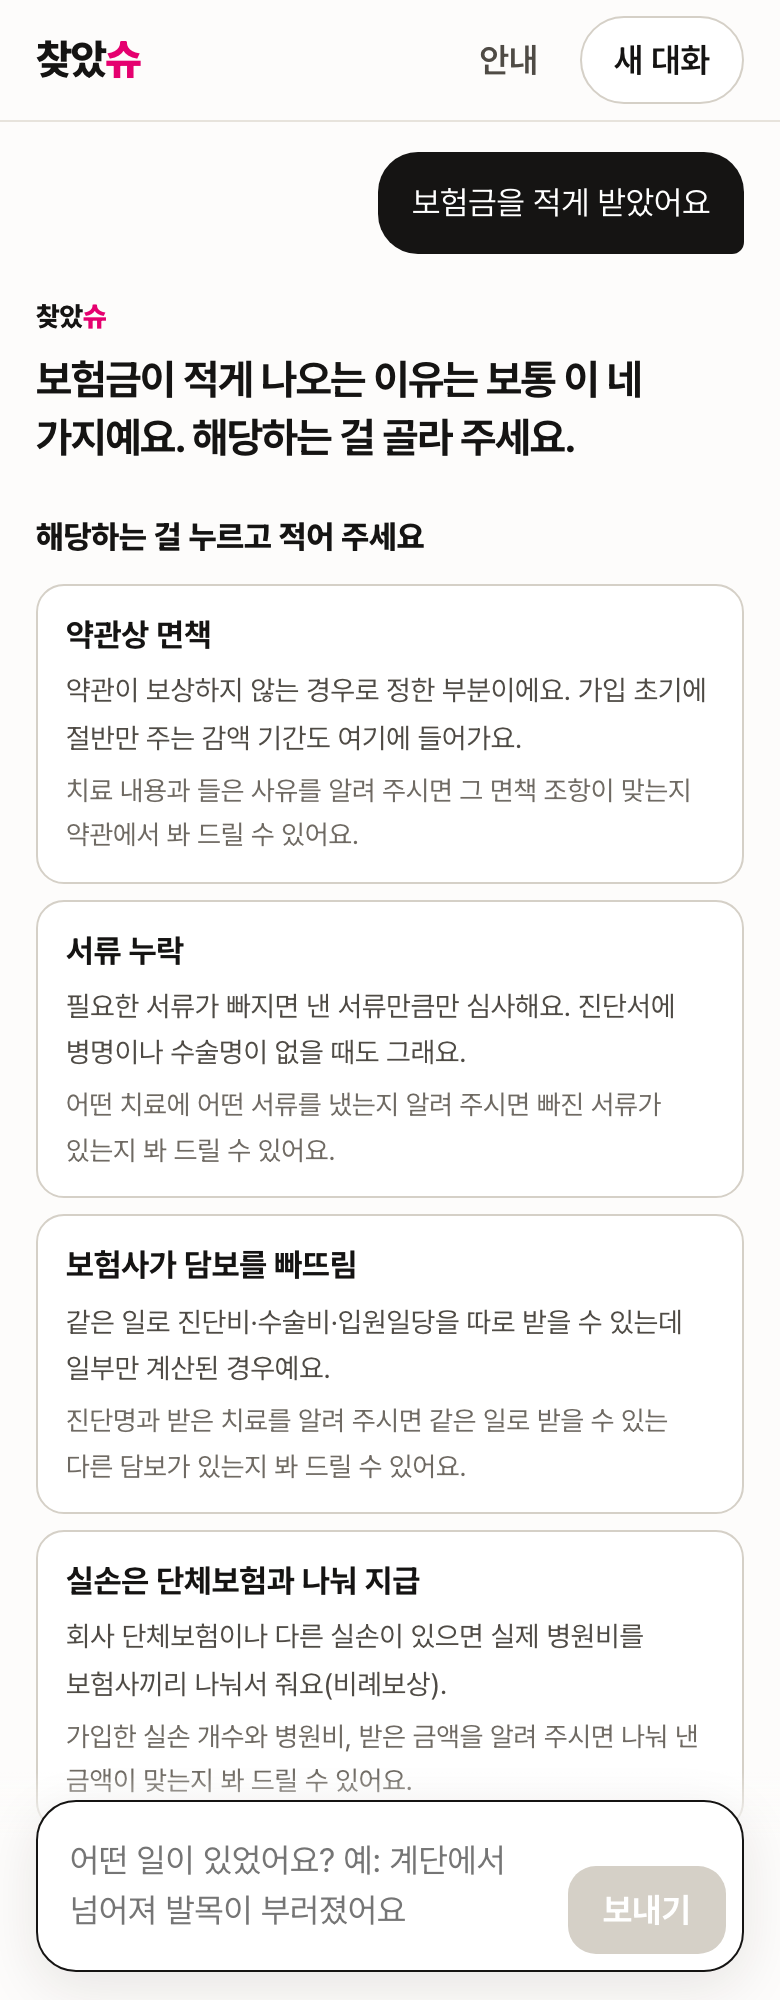
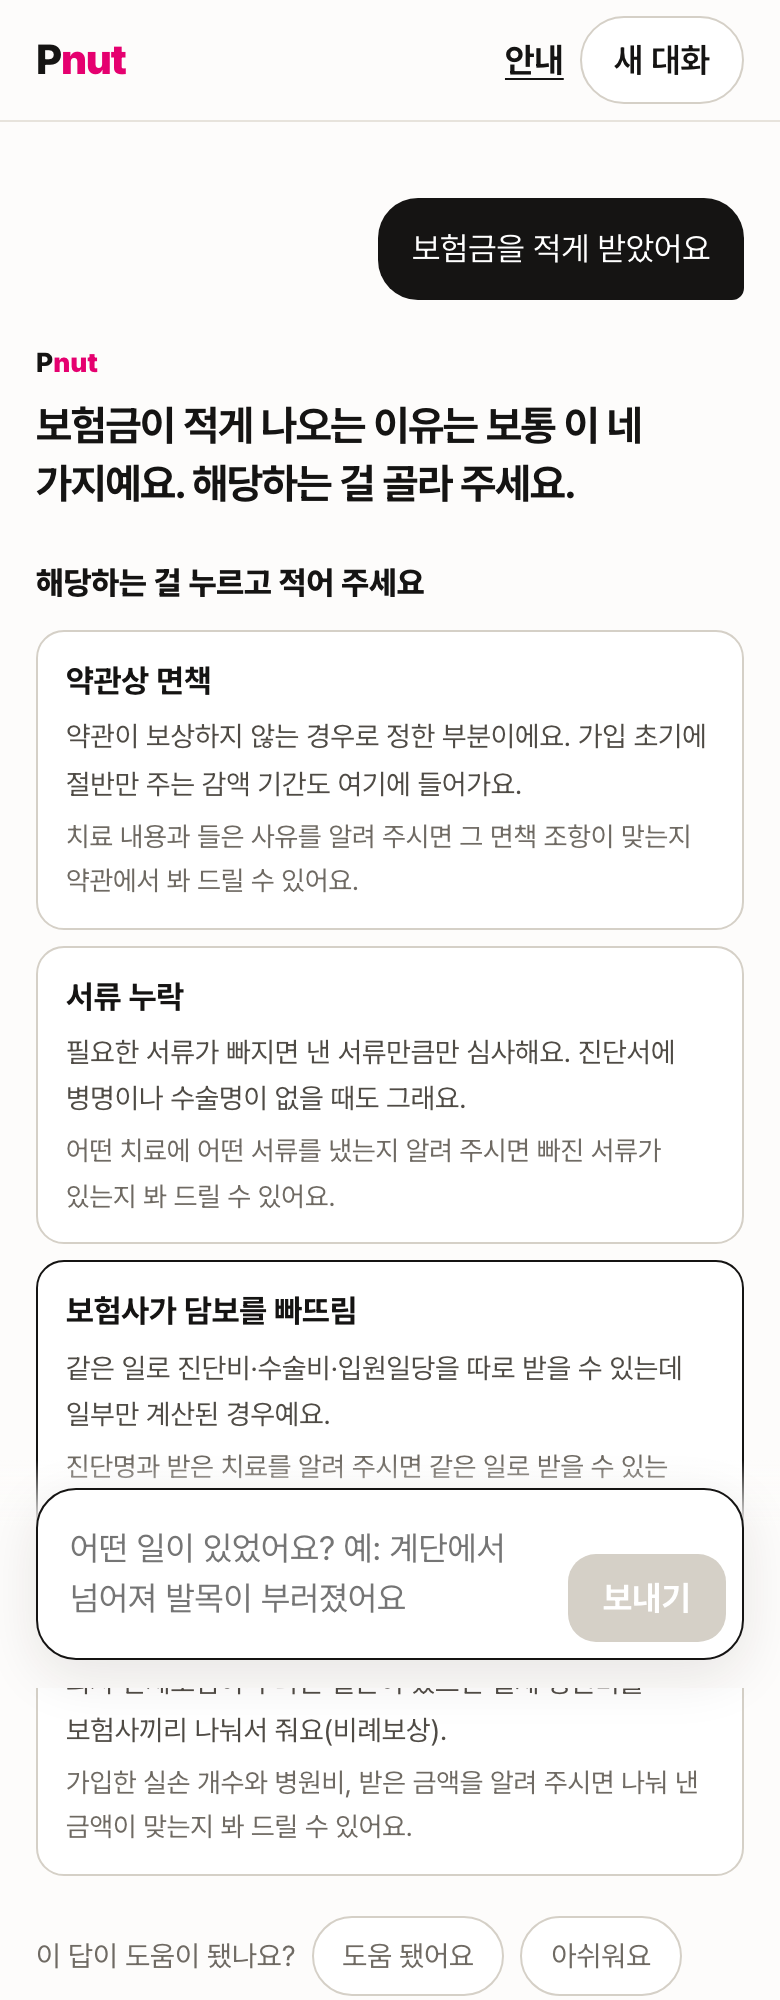
docs: 이름을 피넛으로 바꾸고 화면·질문 기록·다음 단계 반영
- 찾았슈 → 피넛(로고 Pnut), 옛 이름은 본문에 한 번 남김
- 화면 4장을 배포판(foundshu-00041)과 같은 코드로 다시 찍고 해시 기록 갱신
- 동의한 질문만 가려 버킷에 저장하는 설계 판단, 외부 AI 읽기를 끈 상태, 응답 시간 재측정
- 다음 단계(큰 분류, 분류 단위 평가, 로컬 모델, 수집 확장)를 계획으로 추가

diff --git a/README.md b/README.md
@@ -1,18 +1,18 @@
-# 사고 경위로 보험 약관의 담보와 근거 조항을 찾는 찾았슈
+# 사고 경위로 보험 약관의 담보와 근거 조항을 찾는 피넛
 
 [![검증](https://github.com/wpalswpa/foundshu-rag-evidence/actions/workflows/verify.yml/badge.svg)](https://github.com/wpalswpa/foundshu-rag-evidence/actions/workflows/verify.yml)
 
-다친 일이나 아팠던 일을 평소 말로 적으면, 보험사가 공시한 약관 원문에서 확인할 담보를 찾아 진단비, 수술비, 입원일당, 실손 순으로 보여 준다. 담보마다 약관의 기준 문장, 빠지는 경우, 준비할 서류를 함께 붙인다. 보험금이 나오는지 정하지는 않는다. 약관을 펴기 전에 "어느 담보의 어느 조항을 읽어야 하는가"까지 좁혀 주는 것이 목적이다.
+다친 일이나 아팠던 일을 평소 말로 적으면, 보험사가 공시한 약관 원문에서 확인할 담보를 찾아 진단비, 수술비, 입원일당, 실손 순으로 보여 준다. 담보마다 약관의 기준 문장, 빠지는 경우, 준비할 서류를 함께 붙인다. 보험금이 나오는지 정하지는 않는다. 약관을 펴기 전에 "어느 담보의 어느 조항을 읽어야 하는가"까지 좁혀 주는 것이 목적이다. 2026-11-12에 이름을 찾았슈에서 피넛(로고 Pnut)으로 바꿨다.
 
 현재 상태는 다음과 같다.
 
-- 된 것: 접근 코드로 제한한 공개 시연판이 클라우드에서 돈다. 공개판은 약관 색인 검색만 쓰고, 질문마다 언어 모델을 부르지 않는다.
-- 안 된 것: 모델이 원문을 읽고 답하는 읽기 방식은 구현했지만 크레딧이 없어 공개판은 검색만 방식으로 답하고, 읽기 방식의 정확도는 재지 않았다. 색인된 약관은 71개(보험사 7곳)로, 판매 중인 전체 약관에는 아직 멀다. 실제 사용자 검증과 보험사 연동은 없다.
+- 된 것: 접근 코드로 제한한 공개 시연판이 클라우드에서 돈다. 공개판은 약관 색인 검색만 쓰고, 질문마다 언어 모델을 부르지 않는다. 질문은 사용자가 동의한 경우에만 주민등록번호와 휴대폰 번호를 가린 뒤 1년 동안 보관해 검색 개선과 학습에 쓴다.
+- 안 된 것: 외부 AI가 원문을 읽고 답하는 읽기 방식은 구현했지만, 서비스 경로에서는 외부 AI에 기대지 않기로 해 공개판에서 껐다. 로컬 모델이나 직접 띄운 모델 서빙으로 옮기는 것이 다음 단계이고, 읽기 방식의 정확도는 아직 재지 않았다. 색인된 약관은 71개(보험사 7곳)로, 판매 중인 전체 약관에는 아직 멀다. 실제 사용자 검증과 보험사 연동은 없다.
 - 이 저장소: 서비스 코드는 비공개다. 여기에는 작동 원리, 현재 화면, 측정 기록, 이전 실험(계약 범위 검색)의 공개 재현 코드를 둔다.
 
 ## 화면
 
-![소개 화면. 큰 제목 '이것도 보험금 나와요?', 흐르는 키워드 단추, 실제 답 화면](docs/images/intro.png)
+![소개 화면. 큰 제목 '이것도 보험금 나와요?', 흐르는 예시 단추, 휴대폰 틀 안에 실제 답이 쌓이는 화면](docs/images/intro.png)
 
 <p>
   <img src="docs/images/answer-burn.png" width="250" alt="화상 질문의 답. 진단비 묶음의 대표 화상진단비와 심재성 2도 이상이라는 약관 기준 줄, 같은 종류 담보 목록">
@@ -23,7 +23,7 @@
 | 질문 | 화면이 보여 주는 것 |
 |---|---|
 | 뜨거운 물에 데여서 화상을 입었어요 | 진단비 묶음의 대표가 화상진단비다. '기준' 줄에 약관 정의(심재성 2도 이상의 화상)를 옮기고, 다른 회사·다른 이름의 같은 종류 담보는 아래 목록으로 접어 둔다 |
-| 백내장 수술했어요 | 담보 12개를 진단비·수술비·종별 수술비(1~5종)·실손 네 묶음으로 보인다. 이름에 '백내장 제외'가 붙은 담보는 빼고, 왜 뺐는지 안내에 남긴다 |
+| 백내장 수술했어요 | 담보 12개를 진단비·수술비·종별 수술비(1~5종)·실손 네 묶음으로 보인다. 이름에 '백내장 제외'가 붙은 담보는 빼고, 왜 뺐는지 안내에 남긴다. 준비할 서류는 확인 목록으로 보이고, 실손 묶음 아래에서 실손 보험금 계산을 열 수 있다 |
 | 보험금을 적게 받았어요 | 경위가 없어 담보를 늘어놓지 않고, 대표 사유 네 가지를 고르게 한다 |
 
 ## 작동 원리
@@ -70,6 +70,7 @@ flowchart TD
 | 약관을 14개에서 71개로 늘리자 같은 담보 카드가 겹치고 답이 길어졌다(화상 질문에 화상진단비 5장) | 같은 회사·같은 이름 담보는 검색 자리 하나, 같은 종류 담보는 한 묶음(대표 1장 + 목록) | 담보마다 카드 한 장이면 약관이 늘수록 답이 길어진다. 같은 종류 담보는 지급 조건의 짜임과 서류가 비슷하다 |
 | "갑상선에 혹… 암이래요"처럼 떨어져 쓰면 유사암 담보를 못 찾았다 | 사건 읽기가 부위로 묶은 질환과 약관의 묶음 이름(유사암)을 검색 계획에 넣는다 | 낱말 점수만으로는 이름이 다른 유사암진단비가 20위 밖으로 밀렸다 |
 | 판단 목록이 코드에 흩어져 있었다 | 담보 순서, 일반어, 제외 표시, 되묻기 선택지를 데이터 파일로 분리하고 코드는 표만 적용한다 | 목록이 코드 안에 있으면 바꿀 때마다 코드를 고쳐야 한다 |
+| 학습용 질문 기록이 클라우드에서 남지 않았다 | 동의한 질문만 가려서, 질문 하나를 파일 하나로 저장소 버킷에 답을 보내기 전에 올린다. 버킷에는 365일 삭제 규칙을 건다 | 컨테이너 안 SQLite 파일은 요청이 없어 인스턴스가 0대로 줄면 사라졌다. SQLite 파일을 버킷에 붙여 쓰면 잠금 문제가 생긴다. 답을 보낸 뒤 올리면 Cloud Run이 CPU를 거의 멈춰 기록이 늦거나 빠질 수 있다 |
 
 ## 측정 결과
 
@@ -83,7 +84,7 @@ flowchart TD
 
 - 같은 질문으로 잰 변화: 첫 측정(약관 14개) 찾음 10 · 잘못 표시 10 · 못 찾음 12 → '안 나와요' 단정을 없앤 뒤 20 · 0 · 12 → 약관 71개와 묶음 질환·실손 보강 뒤 23 · 0 · 9.
 - 못 찾은 9개에는 고객 말과 약관 말이 먼 질문("온몸 사진 찍는 검사" → 양전자단층촬영, "간질" → 뇌전증, "피를 못 만드는 병" → 재생불량성빈혈)과, 담보가 아니라 계약 조건을 묻는 질문(특별조건부, 이륜자동차 부담보)이 섞여 있다.
-- 공개판(클라우드, CPU 1개) 응답: 따뜻한 상태에서 0.3~1초, 인스턴스가 처음 뜬 뒤 첫 질문은 수 초가 걸린다.
+- 공개판(클라우드, CPU 1개) 응답: 2026-11-12 리비전 foundshu-00041에서 질문 4개로 쟀다. 인스턴스가 켜져 있을 때 0.3~1.1초, 새로 뜬 뒤 첫 질문은 2.2초였다.
 - 읽기 방식은 금감원 분쟁 사례 181개로 평가 자료를 답을 보기 전에 고정했지만, 아직 돌리지 않았다.
 - 배포 전에 확인하는 행동: 이름에서 뺀 병의 특약이 카드에 없다(백내장, 대장 용종, 갑상선암, 치아). 관계없는 제외는 남는다(위암 질문의 '유사암 제외' 암진단비, 발목 골절 질문의 '치아파절 제외' 골절진단비). 같은 회사·같은 이름 담보는 한 장이다. 모든 담보가 정확히 한 묶음에 들어간다. 경위가 없으면 모델을 부르지 않는다.
 
@@ -97,6 +98,15 @@ flowchart TD
   - 아직 판매 중지 상품과 지난 판은 받지 않았다. 계약 시점의 약관을 고르려면 필요하다.
 - 계약 정보 없이 묻는 질문이라 다른 회사의 약관을 예시로 보여 준다. 화면에도 "내 계약과 같은 상품이 아니라 다른 보험사 약관 예시"라고 적는다.
 - 지급 여부 판정, 청구 대행, 보험사 연동은 하지 않는다.
+
+## 다음 단계
+
+계획이며 아직 구현하지 않았다.
+
+1. 사건을 질병과 상해로 나눈 뒤 입원일당·수술금·진단비·실손 같은 큰 분류로 먼저 답한다. 질문한 사람의 가입 상황을 모르므로 담보 이름은 예시로만 보인다.
+2. 실무자가 정답을 정한 질문으로 분류 단위의 누락과 오분류를 잰다.
+3. 원문 읽기를 외부 AI 대신 로컬 모델이나 직접 띄운 모델 서빙으로 옮기고, 동의를 받아 모은 질문을 학습 자료로 쓴다.
+4. 나머지 보험사 약관과 판매 중지·지난 판을 수집한다.
 
 ## 이전 실험: 계약 범위 검색
 

diff --git a/docs/screenshots.md b/docs/screenshots.md
@@ -1,12 +1,12 @@
 # 서비스 화면
 
-공개 시연판과 같은 코드를 로컬에서 실행하고 예시 질문을 넣어 찍었다. 실제 고객 자료가 아니며, 이미지를 합성하거나 결과 문구를 바꾸지 않았다. 화면 아래의 입력 칸은 실제 화면처럼 답 위에 떠 있는 상태 그대로다. 화면별 SHA-256과 찍은 판은 [기록](../evidence/screenshots.json)에 있다.
+공개 시연판에 배포한 판(2026-11-12, foundshu-00041)과 같은 코드를 로컬에서 실행하고 예시 질문을 넣어 찍었다. 실제 고객 자료가 아니며, 이미지를 합성하거나 결과 문구를 바꾸지 않았다. 화면 아래의 입력 칸은 실제 화면처럼 답 위에 떠 있는 상태 그대로다. 질문 저장 동의 막대는 답을 가리지 않도록 '동의 안 함'을 눌러 닫은 뒤 찍었다. 화면별 SHA-256과 찍은 판은 [기록](../evidence/screenshots.json)에 있다.
 
 | 화면 | 넣은 질문 | 보여 주는 것 | 범위 |
 |---|---|---|---|
-| [소개](images/intro.png) | 없음 | 첫 화면 제목, 흐르는 키워드 단추, 실제 답 화면 | 데스크톱 1440px |
+| [소개](images/intro.png) | 없음 | 첫 화면 제목, 흐르는 예시 단추, 휴대폰 틀 안에 실제 답이 아래부터 쌓이는 화면(움직임이 끝난 뒤) | 데스크톱 1440px |
 | [화상 답](images/answer-burn.png) | 뜨거운 물에 데여서 화상을 입었어요 | 진단비 묶음의 대표 화상진단비, 약관 정의를 옮긴 '기준' 줄, 지급 조항, 출처 쪽수, 같은 종류 담보 목록 | 모바일 390px |
-| [묶음과 제외 대조](images/answer-exclusion.png) | 백내장 수술했어요 | 진단비·수술비·종별 수술비·실손 네 묶음, 이름에 '백내장 제외'가 붙은 담보를 뺐다는 안내, 수술 종 분류 | 모바일 390px |
+| [묶음과 제외 대조](images/answer-exclusion.png) | 백내장 수술했어요 | 진단비·수술비·종별 수술비·실손 묶음, 실손 계산 열기, 이름에 '백내장 제외'가 붙은 담보를 뺐다는 안내, 수술 종 분류, 준비할 서류 확인 목록 | 모바일 390px |
 | [되묻기](images/clarify.png) | 보험금을 적게 받았어요 | 경위가 없어 대표 사유 네 가지를 선택지로 보임 | 모바일 390px |
 
 화면 속 약관 문장은 보험사가 공시한 약관의 인용이다. 담보 카드는 질문한 사람의 계약이 아니라 색인된 다른 보험사 약관의 예시이고, 모든 카드가 '확인 필요'인 것은 검색만 방식이 지급 여부를 단정하지 않기 때문이다. 지급 확정 결과로 읽으면 안 된다.

diff --git a/docs/provenance.md b/docs/provenance.md
@@ -1,6 +1,6 @@
 # 구현의 출처와 공개 재현 범위
 
-원본 찾았슈의 검색 규칙을 검토하기 쉽게 줄여 썼다. 서비스 소스 전체의 사본이나 원본 성능을 재현하는 패키지가 아니다.
+원본 피넛(옛 이름 찾았슈)의 검색 규칙을 검토하기 쉽게 줄여 썼다. 서비스 소스 전체의 사본이나 원본 성능을 재현하는 패키지가 아니다.
 
 | 공개 구현 | 원본 구성 | 가져온 것과 차이 |
 |---|---|---|

diff --git a/docs/design.md b/docs/design.md
@@ -1,4 +1,4 @@
-# 찾았슈 검색 근거 공개 설계
+# 피넛(옛 이름 찾았슈) 검색 근거 공개 설계
 
 이 문서는 공개 재현의 범위와 검증 기준이다. 서비스 전체와 보험금 지급 판단은 구현 범위에 포함하지 않는다.
 
